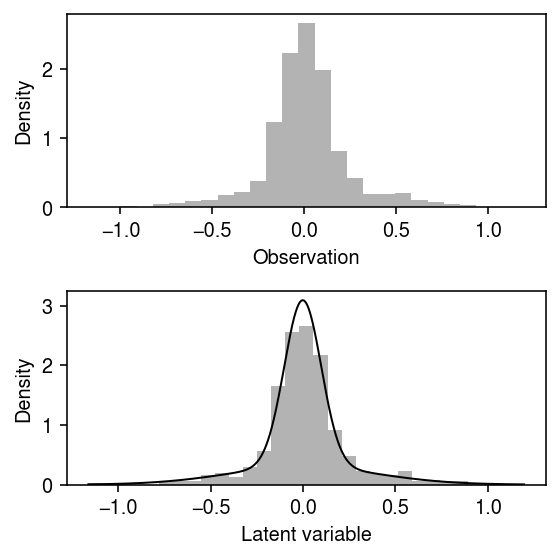
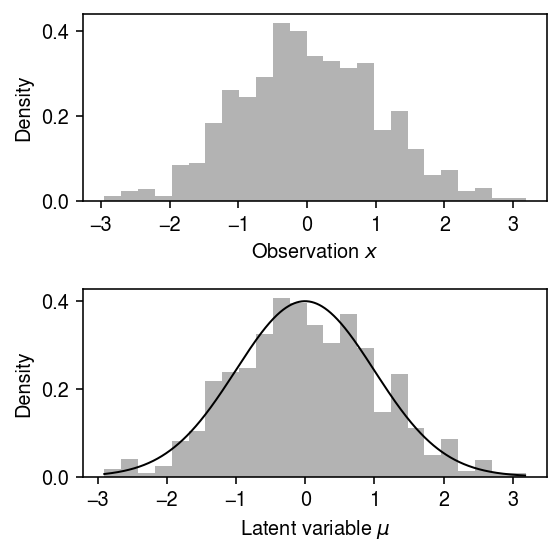
More results on EBNM-NF

Changed region(s): [[0.0304, 0.0, 1.0, 0.4901], [0.0304, 0.5207, 0.9714, 0.9802], [0.9714, 0.5207, 1.0, 0.8577]]

diff --git a/docs/flows.html b/docs/flows.html
@@ -1,7 +1,7 @@
 <!DOCTYPE html>
 <html lang="en">
 <head>
-<!-- 2021-01-26 Tue 13:37 -->
+<!-- 2021-01-31 Sun 12:37 -->
 <meta charset="utf-8">
 <meta name="viewport" content="width=device-width, initial-scale=1">
 <title>Normalizing flows for EBPM</title>
@@ -263,6 +263,7 @@ for the JavaScript code in this tag.
 <ul>
 <li><a href="#org799ab3c">Normalizing flow for density estimation</a></li>
 <li><a href="#orgef00a68">Normalizing flow for empirical Bayes</a></li>
+<li><a href="#org4c643f9">Planar flow</a></li>
 </ul>
 </li>
 <li><a href="#org26165be">Results</a>
@@ -400,7 +401,7 @@ descent.
     torch.nn.init.xavier_normal_(<span class="org-keyword">self</span>.weight)
     <span class="org-keyword">self</span>.bias = torch.nn.Parameter(torch.zeros([1]))
     <span class="org-keyword">self</span>.post_act = torch.nn.Parameter(torch.zeros([n_features, 1]))
-    torch.nn.init.xavier_normal_(<span class="org-keyword">self</span>.post_act)
+    <span class="org-comment-delimiter"># </span><span class="org-comment">torch.nn.init.xavier_normal_(self.post_act)</span>
 
   <span class="org-keyword">def</span> <span class="org-function-name">forward</span>(<span class="org-keyword">self</span>, x):
     <span class="org-comment-delimiter"># </span><span class="org-comment">x is [batch_size, n_features]</span>
@@ -637,6 +638,26 @@ discretizing \(\hat{g}\) and taking weighted sums.
 </div>
 </div>
 </div>
+
+<div id="outline-container-org4c643f9" class="outline-3">
+<h3 id="org4c643f9">Planar flow</h3>
+<div class="outline-text-3" id="text-org4c643f9">
+<p>
+The specific class of transformations we will consider are <i>planar flows</i>
+(Rezende and Mohamed 2015)
+</p>
+
+\begin{equation}
+  T(x) = x + u \operatorname{sigmoid}(w x + b),
+\end{equation}
+
+<p>
+where \(u, w, b\) are free (scalar) parameters. The intuition behind this
+transform is that the pre-activation \(w x + b\) defines a (hyper)plane, and
+the post-activation \(u\) dilates the density about that hyperplane.
+</p>
+</div>
+</div>
 </div>
 
 <div id="outline-container-org26165be" class="outline-2">
@@ -752,12 +773,12 @@ Draw from a scale mixture of Gaussians convolved with a Gaussian.
 <div class="org-src-container">
 <pre class="src src-ipython"><span class="org-variable-name">rng</span> = np.random.default_rng(1)
 <span class="org-variable-name">n</span> = 1000
-<span class="org-variable-name">s</span> = 1.
-<span class="org-variable-name">pi</span> = np.array([0.7, 0.3])
-<span class="org-variable-name">scale</span> = np.array([0.1, 0.4])
+<span class="org-variable-name">s</span> = 0.05
+<span class="org-variable-name">pi</span> = np.array([1., 0.])
+<span class="org-variable-name">scale</span> = np.array([1., 1.])
 <span class="org-variable-name">z</span> = rng.uniform(size=(n, 1)) &lt; pi[0]
 <span class="org-variable-name">mu</span> = rng.normal(scale=scale @ np.hstack([z, ~z]).T)
-<span class="org-variable-name">x</span> = rng.normal(mu, 0.05)
+<span class="org-variable-name">x</span> = rng.normal(loc=mu, scale=s)
 </pre>
 </div>
 
@@ -769,14 +790,14 @@ Plot the simulated data.
 <pre class="src src-ipython">plt.clf()
 <span class="org-variable-name">fig</span>, <span class="org-variable-name">ax</span> = plt.subplots(2, 1)
 fig.set_size_inches(4, 4)
-ax[0].hist(x, bins=27, color=<span class="org-string">'0.7'</span>, density=<span class="org-constant">True</span>)
-ax[0].set_xlabel(<span class="org-string">'Observation'</span>)
+ax[0].hist(x, bins=25, color=<span class="org-string">'0.7'</span>, density=<span class="org-constant">True</span>)
+ax[0].set_xlabel(<span class="org-string">'Observation $x$'</span>)
 ax[0].set_ylabel(<span class="org-string">'Density'</span>)
 <span class="org-variable-name">grid</span> = np.linspace(mu.<span class="org-builtin">min</span>(), mu.<span class="org-builtin">max</span>(), 1000)
 <span class="org-variable-name">mixcdf</span> = st.norm(scale=scale).cdf(grid.reshape(-1, 1)) @ pi
-ax[1].hist(mu, bins=31, color=<span class="org-string">'0.7'</span>, density=<span class="org-constant">True</span>)
+ax[1].hist(mu, bins=25, color=<span class="org-string">'0.7'</span>, density=<span class="org-constant">True</span>)
 ax[1].plot(grid[:-1], np.diff(mixcdf) / (grid[1] - grid[0]), lw=1, c=<span class="org-string">'k'</span>)
-ax[1].set_xlabel(<span class="org-string">'Latent variable'</span>)
+ax[1].set_xlabel(<span class="org-string">'Latent variable $\mu$'</span>)
 ax[1].set_ylabel(<span class="org-string">'Density'</span>)
 fig.tight_layout()
 </pre>
@@ -789,16 +810,16 @@ fig.tight_layout()
 </div>
 
 <div class="org-src-container">
-<pre class="src src-ipython"><span class="org-variable-name">K</span> = 3
-<span class="org-variable-name">run</span> = 10
+<pre class="src src-ipython"><span class="org-variable-name">run</span> = 20
 <span class="org-variable-name">lr</span> = 1e-2
-<span class="org-variable-name">n_epochs</span> = 1600
+<span class="org-variable-name">n_epochs</span> = 800
 torch.manual_seed(run)
-<span class="org-variable-name">m</span> = (EBNM(K=K, scale=torch.tensor(0.05))
-     .fit(torch.tensor(x.reshape(-1, 1), dtype=torch.<span class="org-builtin">float</span>),
-          n_epochs=n_epochs,
-          lr=lr,
-          log_dir=f<span class="org-string">'/scratch/midway2/aksarkar/singlecell/runs/ebnm-nf-{K}-{lr}-{n_epochs}-{run}'</span>))
+<span class="org-variable-name">models</span> = [(EBNM(K=K, scale=torch.tensor(s))
+           .fit(torch.tensor(x.reshape(-1, 1), dtype=torch.<span class="org-builtin">float</span>),
+                n_epochs=n_epochs,
+                lr=lr,
+                log_dir=f<span class="org-string">'/scratch/midway2/aksarkar/singlecell/runs/ebnm-nf-{K}-{lr}-{n_epochs}-{run}'</span>))
+          <span class="org-keyword">for</span> K <span class="org-keyword">in</span> <span class="org-builtin">range</span>(1, 5)]
 </pre>
 </div>
 
@@ -807,12 +828,13 @@ Plot the fitted prior against the true prior.
 </p>
 
 <div class="org-src-container">
-<pre class="src src-ipython">plt.clf()
+<pre class="src src-ipython"><span class="org-variable-name">cm</span> = plt.get_cmap(<span class="org-string">'Dark2'</span>)
+plt.clf()
 plt.gcf().set_size_inches(3.5, 2.5)
+plt.plot(grid, st.norm(scale=scale).pdf(grid.reshape(-1, 1)) @ pi, lw=1, c=<span class="org-string">'k'</span>, label=<span class="org-string">'Simulated'</span>)
 <span class="org-variable-name">grid</span> = np.linspace(mu.<span class="org-builtin">min</span>(), mu.<span class="org-builtin">max</span>(), 1000)
-<span class="org-variable-name">mixcdf</span> = st.norm(scale=scale).cdf(grid.reshape(-1, 1)) @ pi
-plt.plot(grid[:-1], np.diff(mixcdf) / (grid[1] - grid[0]), lw=1, c=<span class="org-string">'k'</span>, label=<span class="org-string">'Simulated'</span>)
-plt.plot(grid, m.fitted_g(torch.tensor(grid, dtype=torch.<span class="org-builtin">float</span>).reshape(-1, 1), log=<span class="org-constant">False</span>), lw=1, c=<span class="org-string">'r'</span>, label=<span class="org-string">'Fit'</span>)
+<span class="org-keyword">for</span> k, m <span class="org-keyword">in</span> <span class="org-builtin">enumerate</span>(models):
+  plt.plot(grid, m.fitted_g(torch.tensor(grid, dtype=torch.<span class="org-builtin">float</span>).reshape(-1, 1), log=<span class="org-constant">False</span>), lw=1, c=cm(k), label=f<span class="org-string">'K={k+1}'</span>)
 plt.legend(frameon=<span class="org-constant">False</span>, loc=<span class="org-string">'center left'</span>, bbox_to_anchor=(1, .5))
 plt.xlabel(<span class="org-string">'Latent variable'</span>)
 plt.ylabel(<span class="org-string">'Density'</span>)
@@ -831,13 +853,16 @@ Plot the approximate posterior against the true latent variables.
 </p>
 
 <div class="org-src-container">
-<pre class="src src-ipython">plt.clf()
+<pre class="src src-ipython"><span class="org-variable-name">cm</span> = plt.get_cmap(<span class="org-string">'Dark2'</span>)
+plt.clf()
 plt.gcf().set_size_inches(2.5, 2.5)
-<span class="org-variable-name">q0</span> = st.norm(x.reshape(-1, 1) / (1 + .05**2), np.sqrt(1 / (1 + 1 / .05**2)))
-<span class="org-keyword">with</span> torch.no_grad():
-  <span class="org-variable-name">samples</span> = np.stack([m.qz.forward(torch.tensor(q0.rvs(), dtype=torch.<span class="org-builtin">float</span>))[0].numpy() <span class="org-keyword">for</span> _ <span class="org-keyword">in</span> <span class="org-builtin">range</span>(100)]).squeeze()
-  <span class="org-variable-name">muhat</span> = samples.mean(axis=0)
-plt.scatter(mu, muhat, s=1, c=<span class="org-string">'k'</span>)
+<span class="org-variable-name">q0</span> = st.norm(x.reshape(-1, 1) / (1 + s**2), np.sqrt(1 / (1 + 1 / s**2)))
+<span class="org-keyword">for</span> k, m <span class="org-keyword">in</span> <span class="org-builtin">enumerate</span>(models):
+  <span class="org-keyword">with</span> torch.no_grad():
+    <span class="org-variable-name">samples</span> = np.stack([m.qz.forward(torch.tensor(q0.rvs(), dtype=torch.<span class="org-builtin">float</span>))[0].numpy() <span class="org-keyword">for</span> _ <span class="org-keyword">in</span> <span class="org-builtin">range</span>(100)]).squeeze()
+    <span class="org-variable-name">muhat</span> = samples.mean(axis=0)
+  plt.scatter(mu, muhat, s=1, c=np.array(cm(k)).reshape(1, -1), label=f<span class="org-string">'K={k+1}'</span>)
+<span class="org-variable-name">l</span> = plt.legend(frameon=<span class="org-constant">False</span>, handletextpad=0, markerscale=4)
 <span class="org-variable-name">lim</span> = [mu.<span class="org-builtin">min</span>(), mu.<span class="org-builtin">max</span>()]
 plt.plot(lim, lim, lw=1, ls=<span class="org-string">':'</span>, c=<span class="org-string">'r'</span>)
 plt.xlim(lim)
@@ -853,25 +878,6 @@ plt.tight_layout()
 <p><img src="figure/flows.org/ebnm-q.png" alt="ebnm-q.png">
 </p>
 </div>
-
-<p>
-Compute the marginal log likelihood of the data under the oracle prior, and
-under the estimated prior.
-</p>
-
-<div class="org-src-container">
-<pre class="src src-ipython">pd.Series({
-  <span class="org-string">'oracle'</span>: (st.norm(scale=np.sqrt(1 + scale ** 2)).pdf(x.reshape(-1, 1)) @ pi).<span class="org-builtin">sum</span>(),
-  <span class="org-string">'ebnm-nf'</span>: (st.norm(loc=grid).pdf(x.reshape(-1, 1)) @ m.fitted_g(torch.tensor(grid, dtype=torch.<span class="org-builtin">float</span>).reshape(-1, 1), log=<span class="org-constant">False</span>)).<span class="org-builtin">sum</span>()
-})
-</pre>
-</div>
-
-<pre class="example">
-oracle       271.383956
-ebnm-nf    96719.294528
-dtype: float64
-</pre>
 </div>
 </div>
 
@@ -967,7 +973,7 @@ torch.manual_seed(run)
 </div>
 <div id="postamble" class="status">
 <p class="author">Author: Abhishek Sarkar</p>
-<p class="date">Created: 2021-01-26 Tue 13:37</p>
+<p class="date">Created: 2021-01-31 Sun 12:37</p>
 <p class="validation"><a href="http://validator.w3.org/check?uri=referer">Validate</a></p>
 </div>
 </body>
